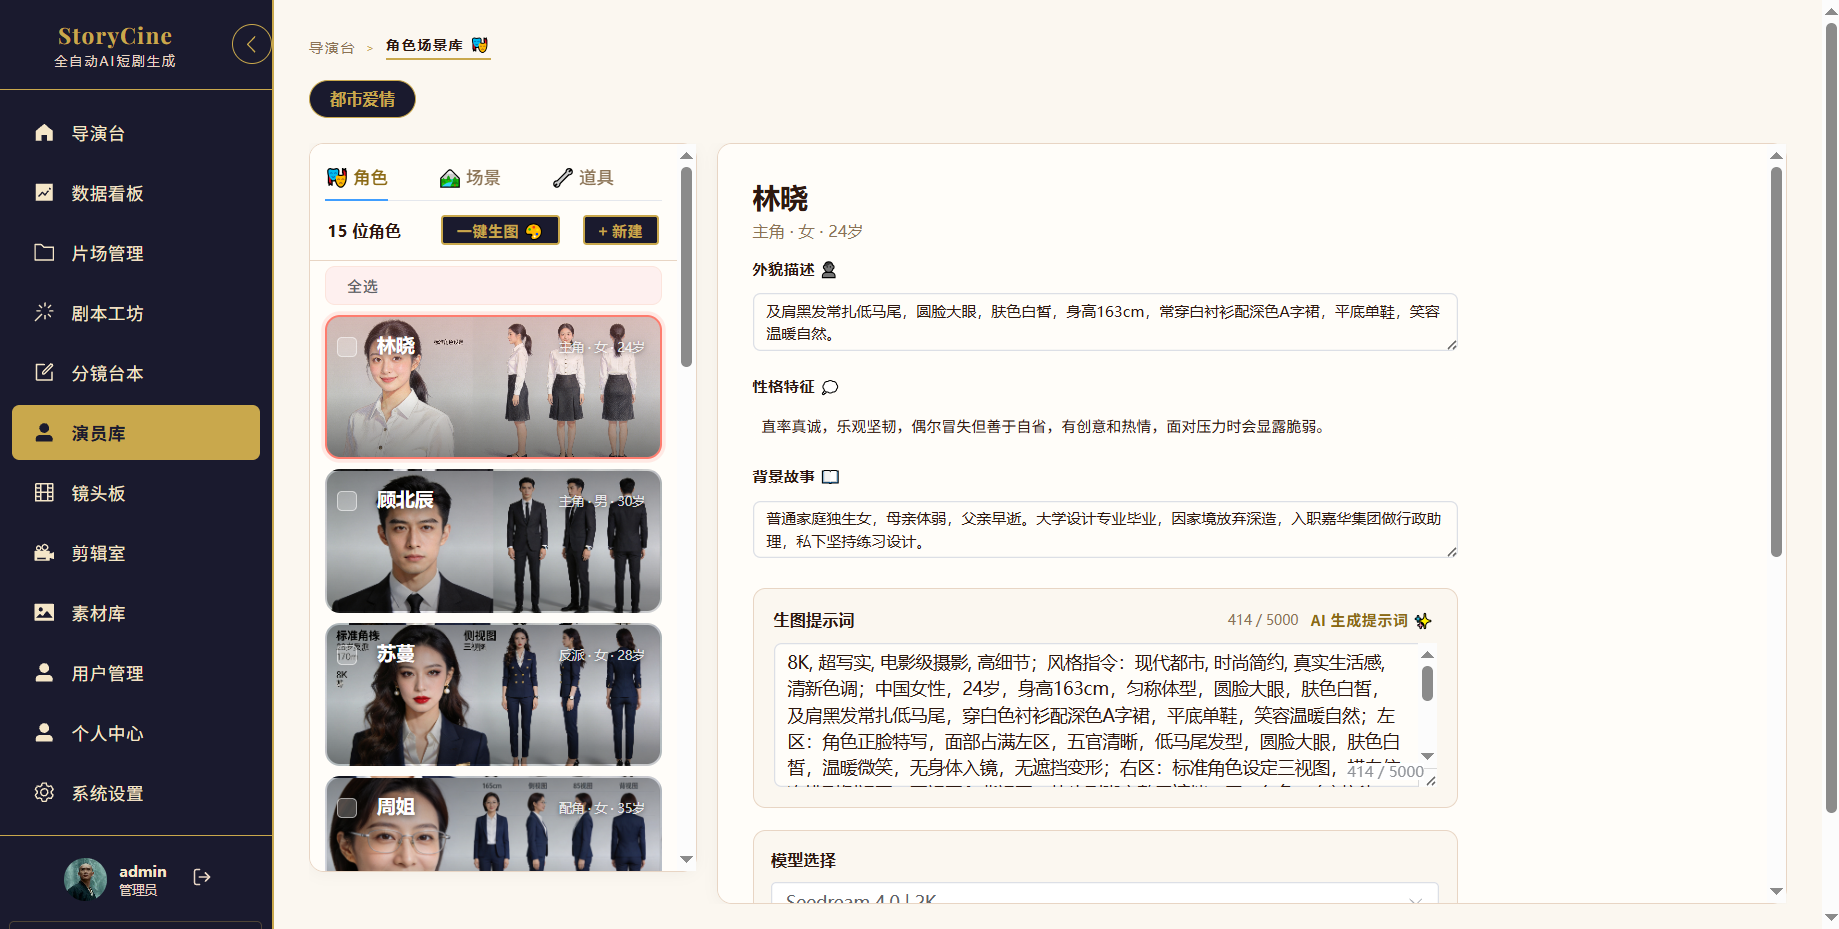
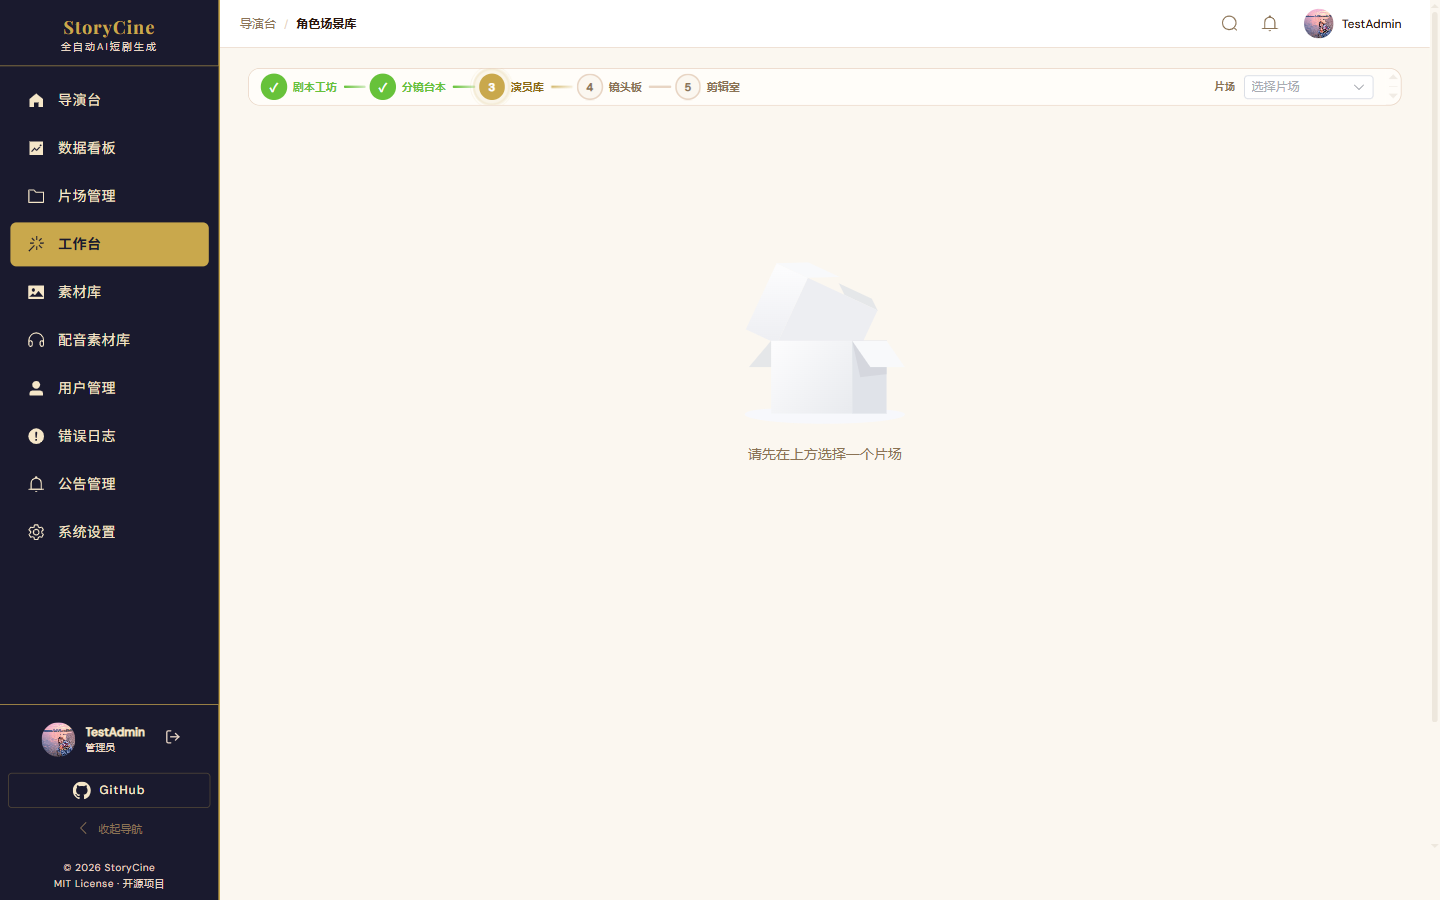
docs: 9张页面截图嵌入使用教程
Playwright自动化截取全部9个核心页面并嵌入对应教程: 部署/LLM配置/剧本工坊/分镜台本/演员库/镜头板/合成/公告/用户管理。

diff --git a/docs/guide/script-edit.md b/docs/guide/script-edit.md
@@ -21,6 +21,8 @@
 └─────────────────────────────────────────────────────────────┘
 ```
 
+
+![分镜台本](../images/script-edit.png)
 ## 核心功能
 
 ### AI 智能补全

diff --git a/docs/guide/storyboard.md b/docs/guide/storyboard.md
@@ -19,6 +19,8 @@
 └──────────────────────────────────────────────────────┘
 ```
 
+
+![镜头板](../images/storyboard.png)
 ## 核心功能
 
 ### 刷新故事板

diff --git a/docs/guide/script-generate.md b/docs/guide/script-generate.md
@@ -16,6 +16,8 @@
 └─────────────┴──────────────────────────────┘
 ```
 
+
+![剧本工坊](../images/script-generate.png)
 ## 创作流程
 
 1. 在左侧面板选择创作标签：

diff --git a/docs/guide/admin.md b/docs/guide/admin.md
@@ -2,6 +2,10 @@
 
 以下功能仅 **管理员（admin）** 账号可用。
 
+
+![用户管理](../images/users.png)
+
+![公告管理](../images/announcements.png)
 ## 用户管理
 
 路径：左侧菜单「**用户管理**」

diff --git a/docs/guide/composition.md b/docs/guide/composition.md
@@ -14,6 +14,8 @@
 | 背景音乐 | URL 链接（可选） |
 | 字幕 | 开关 |
 
+
+![成片合成](../images/composition.png)
 ## 操作流程
 
 1. 确保「**镜头板**」中已有生成好的图片/视频素材

diff --git a/docs/guide/first-project.md b/docs/guide/first-project.md
@@ -6,7 +6,7 @@
 
 输入项目名称，选择合适的导演风格（写实 / 动漫），点击确认。
 
-![片场管理]()
+![片场管理](../images/projects.png)
 
 ## 2. 设置导演风格
 

diff --git a/docs/guide/assets.md b/docs/guide/assets.md
@@ -10,6 +10,8 @@
 | 场景 | 名称 / 描述 | 场景图 |
 | 道具 | 名称 / 描述 | 道具图 |
 
+
+![演员库](../images/assets.png)
 ## 角色详情（双栏布局）
 
 ```
